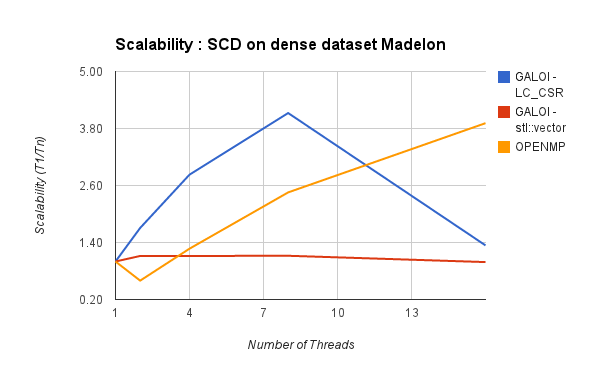
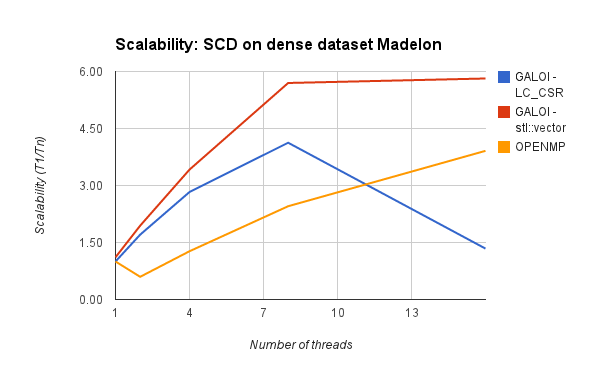
adding result for new dataset and changing the old result images

diff --git a/report/sigplanconf-template.tex b/report/sigplanconf-template.tex
@@ -558,22 +558,51 @@ OPENMP & 6.97 & 3.38 & 1.83 & 1.04 & 0.63 \\ \hline
 \hline
  & 1 & 2 & 4 & 8 & 16 \\ \hline
 Galois - LC\_CSR & 349.69 & 204.94 & 123.65 & 84.76 & 261.08 \\ \hline
-Galois - STL::Vector  & 35.80 & 32.06 & 32.06 & 31.95 & 36.24 \\ \hline
+Galois - STL::Vector  & 32.23 & 18.42 & 10.47 & 6.28 & 6.15 \\ \hline
 OPENMP & 22.14 & 37.08 & 17.44 & 9.02 & 5.66 \\ \hline
 \end{tabular}
 \label{tb:scd_madelon}
 \end{table}
+
 
 \begin{table}[htbp]
 \caption{Runtime for SCD on MNIST dataset}
 \begin{tabular}{|p{7em}|p{2.5em}|p{2.5em}|p{2.5em}|p{2em}|p{2.5em}|}
 \hline
  & 1 & 2 & 4 & 8 & 16 \\ \hline
-Galois STL::Vector & 206.14 & 205.62 & 206.20 & 205.67 & 205.42 \\ \hline
+Galois STL::Vector & 205.71 & 128.66 & 104.41 & 93.21 & 58.54 \\ \hline
 OPENMP & 124.04 & 79.97 & 53.85 & 32.29 & 19.69 \\ \hline
 \end{tabular}
 \label{tb:scd_mnist}
 \end{table}
+		
+\begin{table}[htbp]
+\caption{Runtime for SCD on URL dataset}
+\begin{tabular}{|p{7em}|p{2.5em}|p{2.5em}|p{2.5em}|p{2em}|p{2.5em}|}
+\hline
+ & 1 & 2 & 4 & 8 & 16 \\ \hline
+OPENMP & 18.92 & 15.72 & 14.81 & 14.81 & 14.09 \\ \hline
+Galoi stl::vector & 48.11 & 31.97 & 20.61 & 16.82 & 15.64 \\ \hline
+\end{tabular}
+\label{}
+\end{table}
+
+
+\begin{figure}[ht!]
+\centering
+\includegraphics[width=80mm]{scd_day5_scale.png}
+\caption{Scalability for Stochastic Coordinate descent on sparse dataset URL }
+\label{fig:sc_scd_url}
+\end{figure}
+
+
+\begin{figure}[ht!]
+\centering
+\includegraphics[width=80mm]{scd_day5_speed.png}
+\caption{Speedup for Stochastic Coordinate descent on sparse dataset URL }
+\label{fig:sp_scd_url}
+\end{figure}
+
 
 
 \subsubsection{Different Galois Schedules vs OpenMP}
